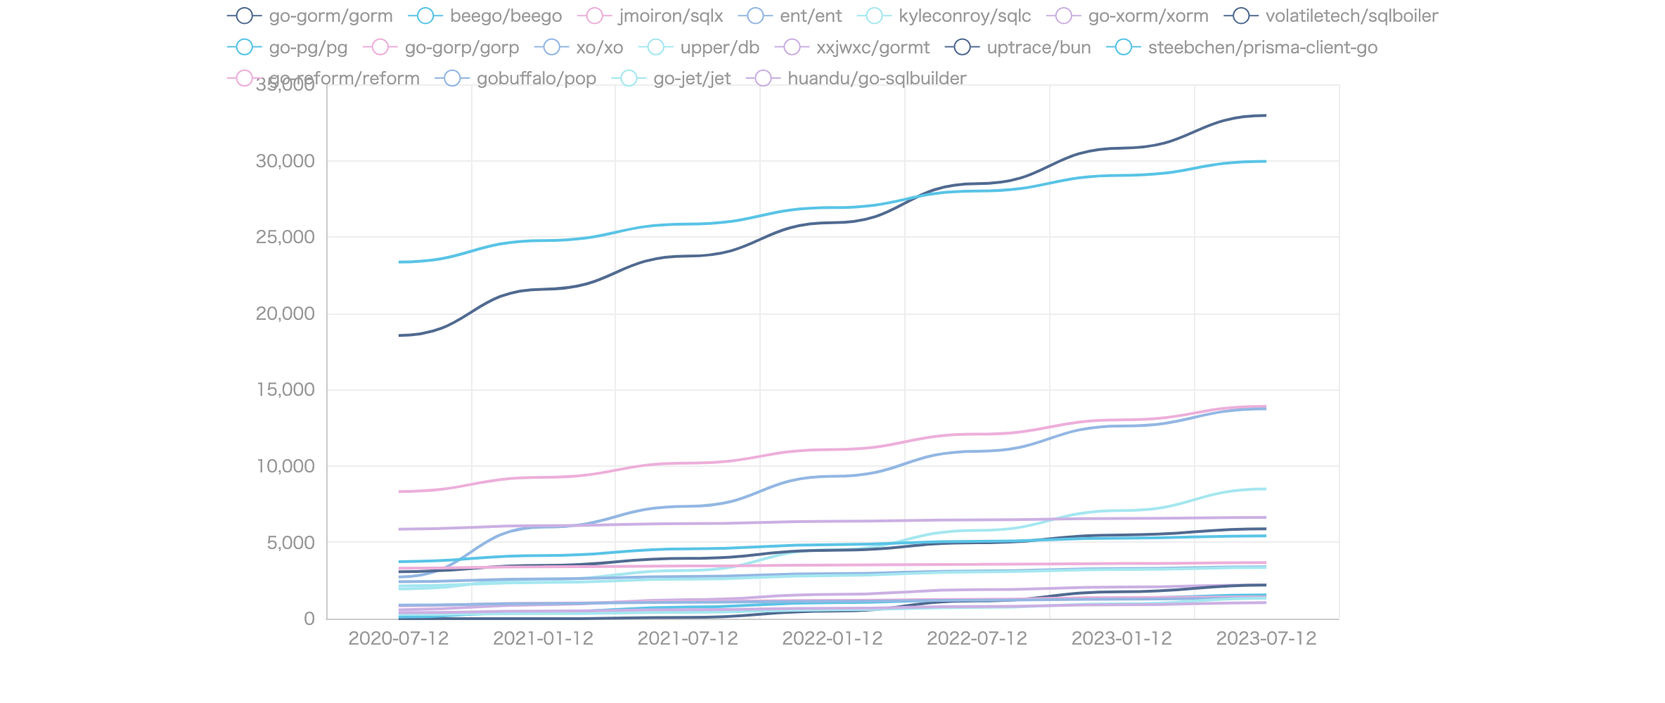
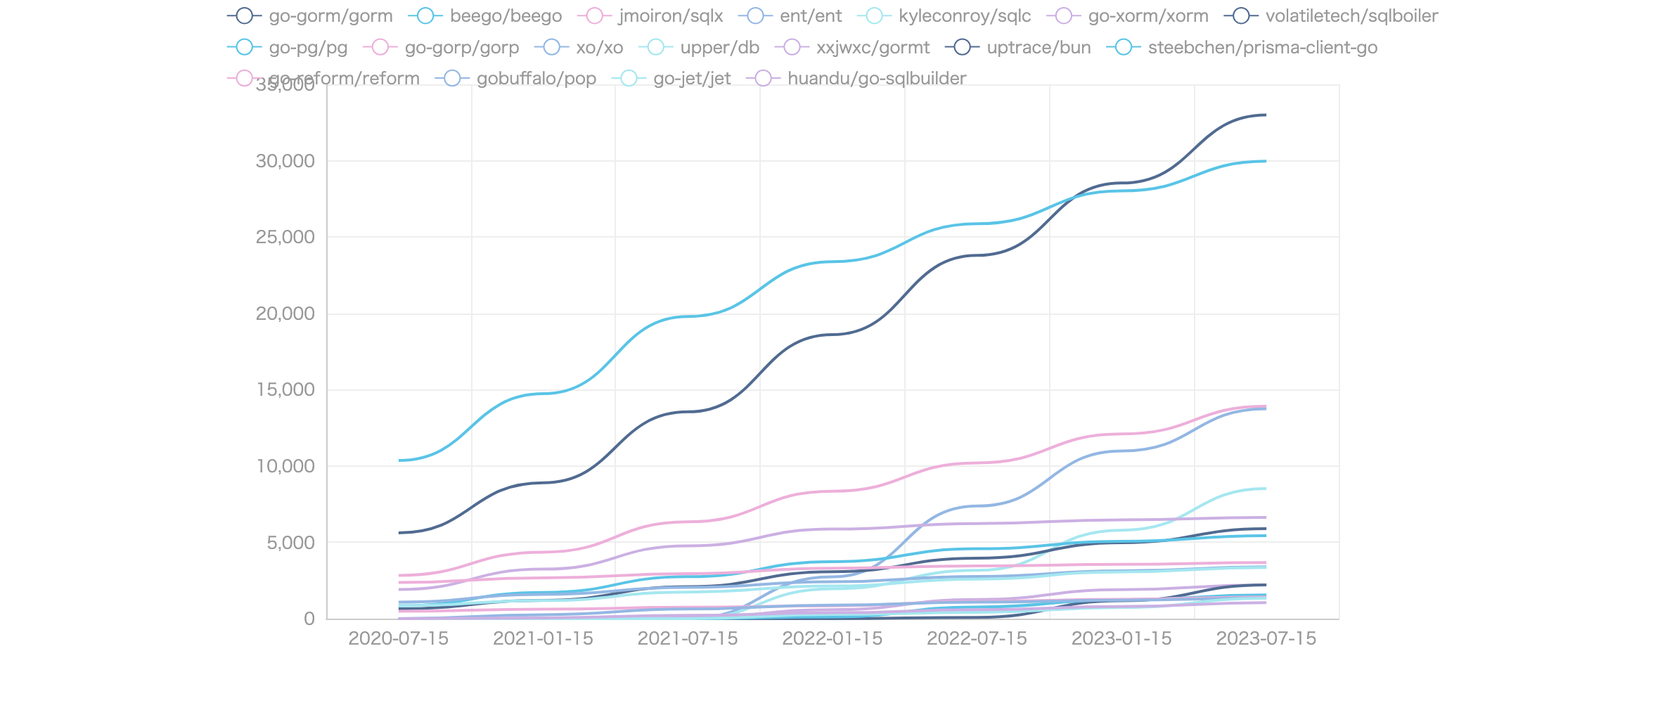
Update README

diff --git a/output/orm_chart.html b/output/orm_chart.html
@@ -10,20 +10,20 @@
 
 <body>
 <div class="container">
-    <div class="item" id="LTubOAgQKIcp" style="width:900px;height:500px;"></div>
+    <div class="item" id="xNKUoFWunjWs" style="width:900px;height:500px;"></div>
 </div>
 
 <script type="text/javascript">
     "use strict";
-    let goecharts_LTubOAgQKIcp = echarts.init(document.getElementById('LTubOAgQKIcp'), "westeros");
-    let option_LTubOAgQKIcp = {"dataset":{"source":null},"legend":{"show":true,"type":""},"series":[{"name":"go-gorm/gorm","type":"line","smooth":true,"connectNulls":false,"showSymbol":false,"waveAnimation":false,"renderLabelForZeroData":false,"selectedMode":false,"animation":false,"data":[{"value":18549,"XAxisIndex":0,"YAxisIndex":0},{"value":21580,"XAxisIndex":0,"YAxisIndex":0},{"value":23752,"XAxisIndex":0,"YAxisIndex":0},{"value":25937,"XAxisIndex":0,"YAxisIndex":0},{"value":28491,"XAxisIndex":0,"YAxisIndex":0},{"value":30826,"XAxisIndex":0,"YAxisIndex":0},{"value":32958,"XAxisIndex":0,"YAxisIndex":0}]},{"name":"beego/beego","type":"line","smooth":true,"connectNulls":false,"showSymbol":false,"waveAnimation":false,"renderLabelForZeroData":false,"selectedMode":false,"animation":false,"data":[{"value":23360,"XAxisIndex":0,"YAxisIndex":0},{"value":24763,"XAxisIndex":0,"YAxisIndex":0},{"value":25849,"XAxisIndex":0,"YAxisIndex":0},{"value":26924,"XAxisIndex":0,"YAxisIndex":0},{"value":28008,"XAxisIndex":0,"YAxisIndex":0},{"value":29040,"XAxisIndex":0,"YAxisIndex":0},{"value":29958,"XAxisIndex":0,"YAxisIndex":0}]},{"name":"jmoiron/sqlx","type":"line","smooth":true,"connectNulls":false,"showSymbol":false,"waveAnimation":false,"renderLabelForZeroData":false,"selectedMode":false,"animation":false,"data":[{"value":8328,"XAxisIndex":0,"YAxisIndex":0},{"value":9255,"XAxisIndex":0,"YAxisIndex":0},{"value":10191,"XAxisIndex":0,"YAxisIndex":0},{"value":11075,"XAxisIndex":0,"YAxisIndex":0},{"value":12084,"XAxisIndex":0,"YAxisIndex":0},{"value":13020,"XAxisIndex":0,"YAxisIndex":0},{"value":13909,"XAxisIndex":0,"YAxisIndex":0}]},{"name":"ent/ent","type":"line","smooth":true,"connectNulls":false,"showSymbol":false,"waveAnimation":false,"renderLabelForZeroData":false,"selectedMode":false,"animation":false,"data":[{"value":2728,"XAxisIndex":0,"YAxisIndex":0},{"value":5997,"XAxisIndex":0,"YAxisIndex":0},{"value":7359,"XAxisIndex":0,"YAxisIndex":0},{"value":9323,"XAxisIndex":0,"YAxisIndex":0},{"value":10964,"XAxisIndex":0,"YAxisIndex":0},{"value":12620,"XAxisIndex":0,"YAxisIndex":0},{"value":13744,"XAxisIndex":0,"YAxisIndex":0}]},{"name":"kyleconroy/sqlc","type":"line","smooth":true,"connectNulls":false,"showSymbol":false,"waveAnimation":false,"renderLabelForZeroData":false,"selectedMode":false,"animation":false,"data":[{"value":1947,"XAxisIndex":0,"YAxisIndex":0},{"value":2568,"XAxisIndex":0,"YAxisIndex":0},{"value":3157,"XAxisIndex":0,"YAxisIndex":0},{"value":4518,"XAxisIndex":0,"YAxisIndex":0},{"value":5779,"XAxisIndex":0,"YAxisIndex":0},{"value":7079,"XAxisIndex":0,"YAxisIndex":0},{"value":8492,"XAxisIndex":0,"YAxisIndex":0}]},{"name":"go-xorm/xorm","type":"line","smooth":true,"connectNulls":false,"showSymbol":false,"waveAnimation":false,"renderLabelForZeroData":false,"selectedMode":false,"animation":false,"data":[{"value":5861,"XAxisIndex":0,"YAxisIndex":0},{"value":6087,"XAxisIndex":0,"YAxisIndex":0},{"value":6226,"XAxisIndex":0,"YAxisIndex":0},{"value":6378,"XAxisIndex":0,"YAxisIndex":0},{"value":6469,"XAxisIndex":0,"YAxisIndex":0},{"value":6566,"XAxisIndex":0,"YAxisIndex":0},{"value":6636,"XAxisIndex":0,"YAxisIndex":0}]},{"name":"volatiletech/sqlboiler","type":"line","smooth":true,"connectNulls":false,"showSymbol":false,"waveAnimation":false,"renderLabelForZeroData":false,"selectedMode":false,"animation":false,"data":[{"value":3072,"XAxisIndex":0,"YAxisIndex":0},{"value":3485,"XAxisIndex":0,"YAxisIndex":0},{"value":3952,"XAxisIndex":0,"YAxisIndex":0},{"value":4478,"XAxisIndex":0,"YAxisIndex":0},{"value":4970,"XAxisIndex":0,"YAxisIndex":0},{"value":5482,"XAxisIndex":0,"YAxisIndex":0},{"value":5885,"XAxisIndex":0,"YAxisIndex":0}]},{"name":"go-pg/pg","type":"line","smooth":true,"connectNulls":false,"showSymbol":false,"waveAnimation":false,"renderLabelForZeroData":false,"selectedMode":false,"animation":false,"data":[{"value":3731,"XAxisIndex":0,"YAxisIndex":0},{"value":4134,"XAxisIndex":0,"YAxisIndex":0},{"value":4575,"XAxisIndex":0,"YAxisIndex":0},{"value":4851,"XAxisIndex":0,"YAxisIndex":0},{"value":5065,"XAxisIndex":0,"YAxisIndex":0},{"value":5278,"XAxisIndex":0,"YAxisIndex":0},{"value":5427,"XAxisIndex":0,"YAxisIndex":0}]},{"name":"go-gorp/gorp","type":"line","smooth":true,"connectNulls":false,"showSymbol":false,"waveAnimation":false,"renderLabelForZeroData":false,"selectedMode":false,"animation":false,"data":[{"value":3305,"XAxisIndex":0,"YAxisIndex":0},{"value":3394,"XAxisIndex":0,"YAxisIndex":0},{"value":3451,"XAxisIndex":0,"YAxisIndex":0},{"value":3514,"XAxisIndex":0,"YAxisIndex":0},{"value":3556,"XAxisIndex":0,"YAxisIndex":0},{"value":3611,"XAxisIndex":0,"YAxisIndex":0},{"value":3673,"XAxisIndex":0,"YAxisIndex":0}]},{"name":"xo/xo","type":"line","smooth":true,"connectNulls":false,"showSymbol":false,"waveAnimation":false,"renderLabelForZeroData":false,"selectedMode":false,"animation":false,"data":[{"value":2417,"XAxisIndex":0,"YAxisIndex":0},{"value":2600,"XAxisIndex":0,"YAxisIndex":0},{"value":2759,"XAxisIndex":0,"YAxisIndex":0},{"value":2945,"XAxisIndex":0,"YAxisIndex":0},{"value":3125,"XAxisIndex":0,"YAxisIndex":0},{"value":3281,"XAxisIndex":0,"YAxisIndex":0},{"value":3391,"XAxisIndex":0,"YAxisIndex":0}]},{"name":"upper/db","type":"line","smooth":true,"connectNulls":false,"showSymbol":false,"waveAnimation":false,"renderLabelForZeroData":false,"selectedMode":false,"animation":false,"data":[{"value":2136,"XAxisIndex":0,"YAxisIndex":0},{"value":2366,"XAxisIndex":0,"YAxisIndex":0},{"value":2588,"XAxisIndex":0,"YAxisIndex":0},{"value":2822,"XAxisIndex":0,"YAxisIndex":0},{"value":3061,"XAxisIndex":0,"YAxisIndex":0},{"value":3219,"XAxisIndex":0,"YAxisIndex":0},{"value":3348,"XAxisIndex":0,"YAxisIndex":0}]},{"name":"xxjwxc/gormt","type":"line","smooth":true,"connectNulls":false,"showSymbol":false,"waveAnimation":false,"renderLabelForZeroData":false,"selectedMode":false,"animation":false,"data":[{"value":577,"XAxisIndex":0,"YAxisIndex":0},{"value":911,"XAxisIndex":0,"YAxisIndex":0},{"value":1245,"XAxisIndex":0,"YAxisIndex":0},{"value":1591,"XAxisIndex":0,"YAxisIndex":0},{"value":1894,"XAxisIndex":0,"YAxisIndex":0},{"value":2072,"XAxisIndex":0,"YAxisIndex":0},{"value":2212,"XAxisIndex":0,"YAxisIndex":0}]},{"name":"uptrace/bun","type":"line","smooth":true,"connectNulls":false,"showSymbol":false,"waveAnimation":false,"renderLabelForZeroData":false,"selectedMode":false,"animation":false,"data":[{"value":0,"XAxisIndex":0,"YAxisIndex":0},{"value":0,"XAxisIndex":0,"YAxisIndex":0},{"value":79,"XAxisIndex":0,"YAxisIndex":0},{"value":497,"XAxisIndex":0,"YAxisIndex":0},{"value":1158,"XAxisIndex":0,"YAxisIndex":0},{"value":1761,"XAxisIndex":0,"YAxisIndex":0},{"value":2200,"XAxisIndex":0,"YAxisIndex":0}]},{"name":"steebchen/prisma-client-go","type":"line","smooth":true,"connectNulls":false,"showSymbol":false,"waveAnimation":false,"renderLabelForZeroData":false,"selectedMode":false,"animation":false,"data":[{"value":111,"XAxisIndex":0,"YAxisIndex":0},{"value":432,"XAxisIndex":0,"YAxisIndex":0},{"value":762,"XAxisIndex":0,"YAxisIndex":0},{"value":1049,"XAxisIndex":0,"YAxisIndex":0},{"value":1230,"XAxisIndex":0,"YAxisIndex":0},{"value":1355,"XAxisIndex":0,"YAxisIndex":0},{"value":1549,"XAxisIndex":0,"YAxisIndex":0}]},{"name":"go-reform/reform","type":"line","smooth":true,"connectNulls":false,"showSymbol":false,"waveAnimation":false,"renderLabelForZeroData":false,"selectedMode":false,"animation":false,"data":[{"value":839,"XAxisIndex":0,"YAxisIndex":0},{"value":1015,"XAxisIndex":0,"YAxisIndex":0},{"value":1128,"XAxisIndex":0,"YAxisIndex":0},{"value":1196,"XAxisIndex":0,"YAxisIndex":0},{"value":1265,"XAxisIndex":0,"YAxisIndex":0},{"value":1379,"XAxisIndex":0,"YAxisIndex":0},{"value":1419,"XAxisIndex":0,"YAxisIndex":0}]},{"name":"gobuffalo/pop","type":"line","smooth":true,"connectNulls":false,"showSymbol":false,"waveAnimation":false,"renderLabelForZeroData":false,"selectedMode":false,"animation":false,"data":[{"value":885,"XAxisIndex":0,"YAxisIndex":0},{"value":985,"XAxisIndex":0,"YAxisIndex":0},{"value":1076,"XAxisIndex":0,"YAxisIndex":0},{"value":1145,"XAxisIndex":0,"YAxisIndex":0},{"value":1211,"XAxisIndex":0,"YAxisIndex":0},{"value":1277,"XAxisIndex":0,"YAxisIndex":0},{"value":1345,"XAxisIndex":0,"YAxisIndex":0}]},{"name":"go-jet/jet","type":"line","smooth":true,"connectNulls":false,"showSymbol":false,"waveAnimation":false,"renderLabelForZeroData":false,"selectedMode":false,"animation":false,"data":[{"value":274,"XAxisIndex":0,"YAxisIndex":0},{"value":334,"XAxisIndex":0,"YAxisIndex":0},{"value":414,"XAxisIndex":0,"YAxisIndex":0},{"value":578,"XAxisIndex":0,"YAxisIndex":0},{"value":739,"XAxisIndex":0,"YAxisIndex":0},{"value":974,"XAxisIndex":0,"YAxisIndex":0},{"value":1331,"XAxisIndex":0,"YAxisIndex":0}]},{"name":"huandu/go-sqlbuilder","type":"line","smooth":true,"connectNulls":false,"showSymbol":false,"waveAnimation":false,"renderLabelForZeroData":false,"selectedMode":false,"animation":false,"data":[{"value":388,"XAxisIndex":0,"YAxisIndex":0},{"value":495,"XAxisIndex":0,"YAxisIndex":0},{"value":589,"XAxisIndex":0,"YAxisIndex":0},{"value":679,"XAxisIndex":0,"YAxisIndex":0},{"value":792,"XAxisIndex":0,"YAxisIndex":0},{"value":904,"XAxisIndex":0,"YAxisIndex":0},{"value":1044,"XAxisIndex":0,"YAxisIndex":0}]}],"title":{},"tooltip":{"show":false},"xAxis":[{"data":["2020-07-12","2021-01-12","2021-07-12","2022-01-12","2022-07-12","2023-01-12","2023-07-12"]}],"yAxis":[{}]}
+    let goecharts_xNKUoFWunjWs = echarts.init(document.getElementById('xNKUoFWunjWs'), "westeros");
+    let option_xNKUoFWunjWs = {"dataset":{"source":null},"legend":{"show":true,"type":""},"series":[{"name":"go-gorm/gorm","type":"line","smooth":true,"connectNulls":false,"showSymbol":false,"waveAnimation":false,"renderLabelForZeroData":false,"selectedMode":false,"animation":false,"data":[{"value":5621,"XAxisIndex":0,"YAxisIndex":0},{"value":8902,"XAxisIndex":0,"YAxisIndex":0},{"value":13546,"XAxisIndex":0,"YAxisIndex":0},{"value":18604,"XAxisIndex":0,"YAxisIndex":0},{"value":23792,"XAxisIndex":0,"YAxisIndex":0},{"value":28537,"XAxisIndex":0,"YAxisIndex":0},{"value":32997,"XAxisIndex":0,"YAxisIndex":0}]},{"name":"beego/beego","type":"line","smooth":true,"connectNulls":false,"showSymbol":false,"waveAnimation":false,"renderLabelForZeroData":false,"selectedMode":false,"animation":false,"data":[{"value":10364,"XAxisIndex":0,"YAxisIndex":0},{"value":14732,"XAxisIndex":0,"YAxisIndex":0},{"value":19793,"XAxisIndex":0,"YAxisIndex":0},{"value":23385,"XAxisIndex":0,"YAxisIndex":0},{"value":25869,"XAxisIndex":0,"YAxisIndex":0},{"value":28020,"XAxisIndex":0,"YAxisIndex":0},{"value":29963,"XAxisIndex":0,"YAxisIndex":0}]},{"name":"jmoiron/sqlx","type":"line","smooth":true,"connectNulls":false,"showSymbol":false,"waveAnimation":false,"renderLabelForZeroData":false,"selectedMode":false,"animation":false,"data":[{"value":2833,"XAxisIndex":0,"YAxisIndex":0},{"value":4356,"XAxisIndex":0,"YAxisIndex":0},{"value":6341,"XAxisIndex":0,"YAxisIndex":0},{"value":8347,"XAxisIndex":0,"YAxisIndex":0},{"value":10206,"XAxisIndex":0,"YAxisIndex":0},{"value":12096,"XAxisIndex":0,"YAxisIndex":0},{"value":13918,"XAxisIndex":0,"YAxisIndex":0}]},{"name":"ent/ent","type":"line","smooth":true,"connectNulls":false,"showSymbol":false,"waveAnimation":false,"renderLabelForZeroData":false,"selectedMode":false,"animation":false,"data":[{"value":0,"XAxisIndex":0,"YAxisIndex":0},{"value":0,"XAxisIndex":0,"YAxisIndex":0},{"value":0,"XAxisIndex":0,"YAxisIndex":0},{"value":2743,"XAxisIndex":0,"YAxisIndex":0},{"value":7378,"XAxisIndex":0,"YAxisIndex":0},{"value":10980,"XAxisIndex":0,"YAxisIndex":0},{"value":13750,"XAxisIndex":0,"YAxisIndex":0}]},{"name":"kyleconroy/sqlc","type":"line","smooth":true,"connectNulls":false,"showSymbol":false,"waveAnimation":false,"renderLabelForZeroData":false,"selectedMode":false,"animation":false,"data":[{"value":0,"XAxisIndex":0,"YAxisIndex":0},{"value":0,"XAxisIndex":0,"YAxisIndex":0},{"value":0,"XAxisIndex":0,"YAxisIndex":0},{"value":1956,"XAxisIndex":0,"YAxisIndex":0},{"value":3163,"XAxisIndex":0,"YAxisIndex":0},{"value":5793,"XAxisIndex":0,"YAxisIndex":0},{"value":8516,"XAxisIndex":0,"YAxisIndex":0}]},{"name":"go-xorm/xorm","type":"line","smooth":true,"connectNulls":false,"showSymbol":false,"waveAnimation":false,"renderLabelForZeroData":false,"selectedMode":false,"animation":false,"data":[{"value":1910,"XAxisIndex":0,"YAxisIndex":0},{"value":3242,"XAxisIndex":0,"YAxisIndex":0},{"value":4768,"XAxisIndex":0,"YAxisIndex":0},{"value":5866,"XAxisIndex":0,"YAxisIndex":0},{"value":6229,"XAxisIndex":0,"YAxisIndex":0},{"value":6472,"XAxisIndex":0,"YAxisIndex":0},{"value":6636,"XAxisIndex":0,"YAxisIndex":0}]},{"name":"volatiletech/sqlboiler","type":"line","smooth":true,"connectNulls":false,"showSymbol":false,"waveAnimation":false,"renderLabelForZeroData":false,"selectedMode":false,"animation":false,"data":[{"value":646,"XAxisIndex":0,"YAxisIndex":0},{"value":1195,"XAxisIndex":0,"YAxisIndex":0},{"value":2095,"XAxisIndex":0,"YAxisIndex":0},{"value":3079,"XAxisIndex":0,"YAxisIndex":0},{"value":3958,"XAxisIndex":0,"YAxisIndex":0},{"value":4974,"XAxisIndex":0,"YAxisIndex":0},{"value":5891,"XAxisIndex":0,"YAxisIndex":0}]},{"name":"go-pg/pg","type":"line","smooth":true,"connectNulls":false,"showSymbol":false,"waveAnimation":false,"renderLabelForZeroData":false,"selectedMode":false,"animation":false,"data":[{"value":850,"XAxisIndex":0,"YAxisIndex":0},{"value":1711,"XAxisIndex":0,"YAxisIndex":0},{"value":2746,"XAxisIndex":0,"YAxisIndex":0},{"value":3735,"XAxisIndex":0,"YAxisIndex":0},{"value":4581,"XAxisIndex":0,"YAxisIndex":0},{"value":5065,"XAxisIndex":0,"YAxisIndex":0},{"value":5431,"XAxisIndex":0,"YAxisIndex":0}]},{"name":"go-gorp/gorp","type":"line","smooth":true,"connectNulls":false,"showSymbol":false,"waveAnimation":false,"renderLabelForZeroData":false,"selectedMode":false,"animation":false,"data":[{"value":2370,"XAxisIndex":0,"YAxisIndex":0},{"value":2673,"XAxisIndex":0,"YAxisIndex":0},{"value":2948,"XAxisIndex":0,"YAxisIndex":0},{"value":3309,"XAxisIndex":0,"YAxisIndex":0},{"value":3451,"XAxisIndex":0,"YAxisIndex":0},{"value":3556,"XAxisIndex":0,"YAxisIndex":0},{"value":3675,"XAxisIndex":0,"YAxisIndex":0}]},{"name":"xo/xo","type":"line","smooth":true,"connectNulls":false,"showSymbol":false,"waveAnimation":false,"renderLabelForZeroData":false,"selectedMode":false,"animation":false,"data":[{"value":1080,"XAxisIndex":0,"YAxisIndex":0},{"value":1590,"XAxisIndex":0,"YAxisIndex":0},{"value":2048,"XAxisIndex":0,"YAxisIndex":0},{"value":2418,"XAxisIndex":0,"YAxisIndex":0},{"value":2762,"XAxisIndex":0,"YAxisIndex":0},{"value":3126,"XAxisIndex":0,"YAxisIndex":0},{"value":3392,"XAxisIndex":0,"YAxisIndex":0}]},{"name":"upper/db","type":"line","smooth":true,"connectNulls":false,"showSymbol":false,"waveAnimation":false,"renderLabelForZeroData":false,"selectedMode":false,"animation":false,"data":[{"value":833,"XAxisIndex":0,"YAxisIndex":0},{"value":1184,"XAxisIndex":0,"YAxisIndex":0},{"value":1743,"XAxisIndex":0,"YAxisIndex":0},{"value":2138,"XAxisIndex":0,"YAxisIndex":0},{"value":2594,"XAxisIndex":0,"YAxisIndex":0},{"value":3064,"XAxisIndex":0,"YAxisIndex":0},{"value":3354,"XAxisIndex":0,"YAxisIndex":0}]},{"name":"xxjwxc/gormt","type":"line","smooth":true,"connectNulls":false,"showSymbol":false,"waveAnimation":false,"renderLabelForZeroData":false,"selectedMode":false,"animation":false,"data":[{"value":0,"XAxisIndex":0,"YAxisIndex":0},{"value":0,"XAxisIndex":0,"YAxisIndex":0},{"value":48,"XAxisIndex":0,"YAxisIndex":0},{"value":587,"XAxisIndex":0,"YAxisIndex":0},{"value":1254,"XAxisIndex":0,"YAxisIndex":0},{"value":1899,"XAxisIndex":0,"YAxisIndex":0},{"value":2215,"XAxisIndex":0,"YAxisIndex":0}]},{"name":"uptrace/bun","type":"line","smooth":true,"connectNulls":false,"showSymbol":false,"waveAnimation":false,"renderLabelForZeroData":false,"selectedMode":false,"animation":false,"data":[{"value":0,"XAxisIndex":0,"YAxisIndex":0},{"value":0,"XAxisIndex":0,"YAxisIndex":0},{"value":0,"XAxisIndex":0,"YAxisIndex":0},{"value":0,"XAxisIndex":0,"YAxisIndex":0},{"value":82,"XAxisIndex":0,"YAxisIndex":0},{"value":1172,"XAxisIndex":0,"YAxisIndex":0},{"value":2212,"XAxisIndex":0,"YAxisIndex":0}]},{"name":"steebchen/prisma-client-go","type":"line","smooth":true,"connectNulls":false,"showSymbol":false,"waveAnimation":false,"renderLabelForZeroData":false,"selectedMode":false,"animation":false,"data":[{"value":0,"XAxisIndex":0,"YAxisIndex":0},{"value":0,"XAxisIndex":0,"YAxisIndex":0},{"value":0,"XAxisIndex":0,"YAxisIndex":0},{"value":114,"XAxisIndex":0,"YAxisIndex":0},{"value":765,"XAxisIndex":0,"YAxisIndex":0},{"value":1232,"XAxisIndex":0,"YAxisIndex":0},{"value":1551,"XAxisIndex":0,"YAxisIndex":0}]},{"name":"go-reform/reform","type":"line","smooth":true,"connectNulls":false,"showSymbol":false,"waveAnimation":false,"renderLabelForZeroData":false,"selectedMode":false,"animation":false,"data":[{"value":483,"XAxisIndex":0,"YAxisIndex":0},{"value":621,"XAxisIndex":0,"YAxisIndex":0},{"value":746,"XAxisIndex":0,"YAxisIndex":0},{"value":840,"XAxisIndex":0,"YAxisIndex":0},{"value":1132,"XAxisIndex":0,"YAxisIndex":0},{"value":1265,"XAxisIndex":0,"YAxisIndex":0},{"value":1419,"XAxisIndex":0,"YAxisIndex":0}]},{"name":"gobuffalo/pop","type":"line","smooth":true,"connectNulls":false,"showSymbol":false,"waveAnimation":false,"renderLabelForZeroData":false,"selectedMode":false,"animation":false,"data":[{"value":0,"XAxisIndex":0,"YAxisIndex":0},{"value":257,"XAxisIndex":0,"YAxisIndex":0},{"value":633,"XAxisIndex":0,"YAxisIndex":0},{"value":889,"XAxisIndex":0,"YAxisIndex":0},{"value":1077,"XAxisIndex":0,"YAxisIndex":0},{"value":1211,"XAxisIndex":0,"YAxisIndex":0},{"value":1346,"XAxisIndex":0,"YAxisIndex":0}]},{"name":"go-jet/jet","type":"line","smooth":true,"connectNulls":false,"showSymbol":false,"waveAnimation":false,"renderLabelForZeroData":false,"selectedMode":false,"animation":false,"data":[{"value":0,"XAxisIndex":0,"YAxisIndex":0},{"value":0,"XAxisIndex":0,"YAxisIndex":0},{"value":0,"XAxisIndex":0,"YAxisIndex":0},{"value":275,"XAxisIndex":0,"YAxisIndex":0},{"value":416,"XAxisIndex":0,"YAxisIndex":0},{"value":740,"XAxisIndex":0,"YAxisIndex":0},{"value":1335,"XAxisIndex":0,"YAxisIndex":0}]},{"name":"huandu/go-sqlbuilder","type":"line","smooth":true,"connectNulls":false,"showSymbol":false,"waveAnimation":false,"renderLabelForZeroData":false,"selectedMode":false,"animation":false,"data":[{"value":0,"XAxisIndex":0,"YAxisIndex":0},{"value":50,"XAxisIndex":0,"YAxisIndex":0},{"value":217,"XAxisIndex":0,"YAxisIndex":0},{"value":387,"XAxisIndex":0,"YAxisIndex":0},{"value":588,"XAxisIndex":0,"YAxisIndex":0},{"value":794,"XAxisIndex":0,"YAxisIndex":0},{"value":1045,"XAxisIndex":0,"YAxisIndex":0}]}],"title":{},"tooltip":{"show":false},"xAxis":[{"data":["2020-07-15","2021-01-15","2021-07-15","2022-01-15","2022-07-15","2023-01-15","2023-07-15"]}],"yAxis":[{}]}
 ;
     
-	let action_LTubOAgQKIcp = {"areas":{},"type":""}
+	let action_xNKUoFWunjWs = {"areas":{},"type":""}
 ;
     
-    goecharts_LTubOAgQKIcp.setOption(option_LTubOAgQKIcp);
- 	goecharts_LTubOAgQKIcp.dispatchAction(action_LTubOAgQKIcp);
+    goecharts_xNKUoFWunjWs.setOption(option_xNKUoFWunjWs);
+ 	goecharts_xNKUoFWunjWs.dispatchAction(action_xNKUoFWunjWs);
 </script>
 
 <style>

diff --git a/README.md b/README.md
@@ -4,93 +4,93 @@ If there are any other public repositories of golang orMapper, I'd be glad to he
 [![Start数チャート](output/orm_chart.jpeg)](https://ryotaroseto.github.io/star-golang-orms/output/orm_chart.html)
 | No. | Project Name | Stars | Subscribers | Forks | Open Issues | Description | Createdate | Last Update |
 | --- | ------------ | ----- | ----------- | ----- | ----------- | ----------- | ----------- | ----------- |
-| 1 | [go-gorm/gorm](https://github.com/go-gorm/gorm) | 32958 | 495 | 3631 | 232 | The fantastic ORM library for Golang, aims to be developer friendly | 2013-10-25 08:31:38 | 2023-07-12 11:08:45 |
-| 2 | [beego/beego](https://github.com/beego/beego) | 29958 | 1210 | 5602 | 12 | beego is an open-source, high-performance web framework for the Go programming language. | 2012-02-29 02:32:08 | 2023-07-12 09:22:39 |
-| 3 | [jmoiron/sqlx](https://github.com/jmoiron/sqlx) | 13908 | 197 | 1027 | 327 | general purpose extensions to golang's database/sql | 2013-01-28 19:40:00 | 2023-07-12 07:52:51 |
-| 4 | [ent/ent](https://github.com/ent/ent) | 13744 | 148 | 824 | 320 | An entity framework for Go | 2019-06-12 22:53:55 | 2023-07-12 06:48:47 |
-| 5 | [kyleconroy/sqlc](https://github.com/kyleconroy/sqlc) | 8492 | 69 | 574 | 358 | Generate type-safe code from SQL | 2019-06-21 21:11:35 | 2023-07-12 11:10:24 |
+| 1 | [go-gorm/gorm](https://github.com/go-gorm/gorm) | 32997 | 495 | 3636 | 220 | The fantastic ORM library for Golang, aims to be developer friendly | 2013-10-25 08:31:38 | 2023-07-15 01:40:13 |
+| 2 | [beego/beego](https://github.com/beego/beego) | 29963 | 1209 | 5603 | 11 | beego is an open-source, high-performance web framework for the Go programming language. | 2012-02-29 02:32:08 | 2023-07-14 16:38:38 |
+| 3 | [jmoiron/sqlx](https://github.com/jmoiron/sqlx) | 13918 | 197 | 1027 | 328 | general purpose extensions to golang's database/sql | 2013-01-28 19:40:00 | 2023-07-14 23:35:47 |
+| 4 | [ent/ent](https://github.com/ent/ent) | 13750 | 148 | 824 | 322 | An entity framework for Go | 2019-06-12 22:53:55 | 2023-07-14 16:16:34 |
+| 5 | [kyleconroy/sqlc](https://github.com/kyleconroy/sqlc) | 8516 | 70 | 577 | 360 | Generate type-safe code from SQL | 2019-06-21 21:11:35 | 2023-07-14 20:39:22 |
 | 6 | [go-xorm/xorm](https://github.com/go-xorm/xorm) | 6636 | 266 | 772 | 307 | Simple and Powerful ORM for Go, support mysql,postgres,tidb,sqlite3,mssql,oracle, Moved to https://gitea.com/xorm/xorm | 2013-05-09 02:35:04 | 2023-07-12 08:42:43 |
-| 7 | [volatiletech/sqlboiler](https://github.com/volatiletech/sqlboiler) | 5885 | 75 | 508 | 88 | Generate a Go ORM tailored to your database schema. | 2016-02-21 06:18:25 | 2023-07-12 02:54:36 |
-| 8 | [go-pg/pg](https://github.com/go-pg/pg) | 5427 | 90 | 397 | 115 | Golang ORM with focus on PostgreSQL features and performance | 2013-04-24 12:31:41 | 2023-07-11 16:20:52 |
-| 9 | [go-gorp/gorp](https://github.com/go-gorp/gorp) | 3673 | 108 | 380 | 145 | Go Relational Persistence - an ORM-ish library for Go | 2012-01-04 19:50:09 | 2023-07-10 14:51:07 |
-| 10 | [xo/xo](https://github.com/xo/xo) | 3391 | 71 | 306 | 44 | Command line tool to generate idiomatic Go code for SQL databases supporting PostgreSQL, MySQL, SQLite, Oracle, and Microsoft SQL Server | 2016-02-05 10:22:20 | 2023-07-11 18:50:38 |
-| 11 | [upper/db](https://github.com/upper/db) | 3348 | 64 | 238 | 158 | Data access layer for PostgreSQL, CockroachDB, MySQL, SQLite and MongoDB with ORM-like features. | 2013-10-23 02:04:36 | 2023-07-10 08:26:14 |
-| 12 | [xxjwxc/gormt](https://github.com/xxjwxc/gormt) | 2212 | 22 | 340 | 57 | database to golang struct | 2019-05-05 13:10:26 | 2023-07-12 02:07:26 |
-| 13 | [uptrace/bun](https://github.com/uptrace/bun) | 2200 | 26 | 161 | 109 | SQL-first Golang ORM | 2021-05-03 11:40:52 | 2023-07-12 11:18:34 |
-| 14 | [steebchen/prisma-client-go](https://github.com/steebchen/prisma-client-go) | 1549 | 26 | 84 | 104 | Prisma Client Go is an auto-generated and fully type-safe database client | 2019-09-24 12:17:03 | 2023-07-11 14:01:22 |
+| 7 | [volatiletech/sqlboiler](https://github.com/volatiletech/sqlboiler) | 5891 | 75 | 510 | 88 | Generate a Go ORM tailored to your database schema. | 2016-02-21 06:18:25 | 2023-07-14 00:27:36 |
+| 8 | [go-pg/pg](https://github.com/go-pg/pg) | 5431 | 90 | 397 | 115 | Golang ORM with focus on PostgreSQL features and performance | 2013-04-24 12:31:41 | 2023-07-14 19:12:23 |
+| 9 | [go-gorp/gorp](https://github.com/go-gorp/gorp) | 3675 | 108 | 380 | 145 | Go Relational Persistence - an ORM-ish library for Go | 2012-01-04 19:50:09 | 2023-07-14 06:48:33 |
+| 10 | [xo/xo](https://github.com/xo/xo) | 3392 | 71 | 307 | 44 | Command line tool to generate idiomatic Go code for SQL databases supporting PostgreSQL, MySQL, SQLite, Oracle, and Microsoft SQL Server | 2016-02-05 10:22:20 | 2023-07-13 18:52:35 |
+| 11 | [upper/db](https://github.com/upper/db) | 3354 | 63 | 237 | 158 | Data access layer for PostgreSQL, CockroachDB, MySQL, SQLite and MongoDB with ORM-like features. | 2013-10-23 02:04:36 | 2023-07-14 03:55:12 |
+| 12 | [xxjwxc/gormt](https://github.com/xxjwxc/gormt) | 2215 | 22 | 340 | 57 | database to golang struct | 2019-05-05 13:10:26 | 2023-07-14 08:15:59 |
+| 13 | [uptrace/bun](https://github.com/uptrace/bun) | 2212 | 26 | 161 | 111 | SQL-first Golang ORM | 2021-05-03 11:40:52 | 2023-07-14 23:29:08 |
+| 14 | [steebchen/prisma-client-go](https://github.com/steebchen/prisma-client-go) | 1551 | 26 | 84 | 108 | Prisma Client Go is an auto-generated and fully type-safe database client | 2019-09-24 12:17:03 | 2023-07-15 01:07:08 |
 | 15 | [go-reform/reform](https://github.com/go-reform/reform) | 1419 | 25 | 72 | 86 | A better ORM for Go, based on non-empty interfaces and code generation. | 2016-02-25 09:41:09 | 2023-06-28 11:21:48 |
-| 16 | [gobuffalo/pop](https://github.com/gobuffalo/pop) | 1345 | 23 | 237 | 98 | A Tasty Treat For All Your Database Needs | 2018-02-07 21:13:46 | 2023-07-11 22:19:35 |
-| 17 | [go-jet/jet](https://github.com/go-jet/jet) | 1331 | 19 | 79 | 25 | Type safe SQL builder with code generation and automatic query result data mapping | 2019-03-02 11:06:23 | 2023-07-12 00:54:23 |
-| 18 | [huandu/go-sqlbuilder](https://github.com/huandu/go-sqlbuilder) | 1044 | 12 | 99 | 9 | A flexible and powerful SQL string builder library plus a zero-config ORM. | 2017-12-27 16:37:48 | 2023-07-12 07:34:30 |
+| 16 | [gobuffalo/pop](https://github.com/gobuffalo/pop) | 1346 | 23 | 237 | 98 | A Tasty Treat For All Your Database Needs | 2018-02-07 21:13:46 | 2023-07-14 12:33:31 |
+| 17 | [go-jet/jet](https://github.com/go-jet/jet) | 1335 | 19 | 80 | 25 | Type safe SQL builder with code generation and automatic query result data mapping | 2019-03-02 11:06:23 | 2023-07-13 17:34:13 |
+| 18 | [huandu/go-sqlbuilder](https://github.com/huandu/go-sqlbuilder) | 1045 | 12 | 99 | 10 | A flexible and powerful SQL string builder library plus a zero-config ORM. | 2017-12-27 16:37:48 | 2023-07-14 09:27:50 |
 ## [go-gorm/gorm](https://github.com/go-gorm/gorm)
-| 2020-07-12 | 2021-01-12 | 2021-07-12 | 2022-01-12 | 2022-07-12 | 2023-01-12 | 2023-07-12 |
+| 2020-07-15 | 2021-01-15 | 2021-07-15 | 2022-01-15 | 2022-07-15 | 2023-01-15 | 2023-07-15 |
 | --- | --- | --- | --- | --- | --- | --- |
-| 18549 | 21580 | 23752 | 25937 | 28491 | 30826 | 32958 |
+| 5621 | 8902 | 13546 | 18604 | 23792 | 28537 | 32997 |
 ## [beego/beego](https://github.com/beego/beego)
-| 2020-07-12 | 2021-01-12 | 2021-07-12 | 2022-01-12 | 2022-07-12 | 2023-01-12 | 2023-07-12 |
+| 2020-07-15 | 2021-01-15 | 2021-07-15 | 2022-01-15 | 2022-07-15 | 2023-01-15 | 2023-07-15 |
 | --- | --- | --- | --- | --- | --- | --- |
-| 23360 | 24763 | 25849 | 26924 | 28008 | 29040 | 29958 |
+| 10364 | 14732 | 19793 | 23385 | 25869 | 28020 | 29963 |
 ## [jmoiron/sqlx](https://github.com/jmoiron/sqlx)
-| 2020-07-12 | 2021-01-12 | 2021-07-12 | 2022-01-12 | 2022-07-12 | 2023-01-12 | 2023-07-12 |
+| 2020-07-15 | 2021-01-15 | 2021-07-15 | 2022-01-15 | 2022-07-15 | 2023-01-15 | 2023-07-15 |
 | --- | --- | --- | --- | --- | --- | --- |
-| 8328 | 9255 | 10191 | 11075 | 12084 | 13020 | 13909 |
+| 2833 | 4356 | 6341 | 8347 | 10206 | 12096 | 13918 |
 ## [ent/ent](https://github.com/ent/ent)
-| 2020-07-12 | 2021-01-12 | 2021-07-12 | 2022-01-12 | 2022-07-12 | 2023-01-12 | 2023-07-12 |
+| 2020-07-15 | 2021-01-15 | 2021-07-15 | 2022-01-15 | 2022-07-15 | 2023-01-15 | 2023-07-15 |
 | --- | --- | --- | --- | --- | --- | --- |
-| 2728 | 5997 | 7359 | 9323 | 10964 | 12620 | 13744 |
+| - | - | - | 2743 | 7378 | 10980 | 13750 |
 ## [kyleconroy/sqlc](https://github.com/kyleconroy/sqlc)
-| 2020-07-12 | 2021-01-12 | 2021-07-12 | 2022-01-12 | 2022-07-12 | 2023-01-12 | 2023-07-12 |
+| 2020-07-15 | 2021-01-15 | 2021-07-15 | 2022-01-15 | 2022-07-15 | 2023-01-15 | 2023-07-15 |
 | --- | --- | --- | --- | --- | --- | --- |
-| 1947 | 2568 | 3157 | 4518 | 5779 | 7079 | 8492 |
+| - | - | - | 1956 | 3163 | 5793 | 8516 |
 ## [go-xorm/xorm](https://github.com/go-xorm/xorm)
-| 2020-07-12 | 2021-01-12 | 2021-07-12 | 2022-01-12 | 2022-07-12 | 2023-01-12 | 2023-07-12 |
+| 2020-07-15 | 2021-01-15 | 2021-07-15 | 2022-01-15 | 2022-07-15 | 2023-01-15 | 2023-07-15 |
 | --- | --- | --- | --- | --- | --- | --- |
-| 5861 | 6087 | 6226 | 6378 | 6469 | 6566 | 6636 |
+| 1910 | 3242 | 4768 | 5866 | 6229 | 6472 | 6636 |
 ## [volatiletech/sqlboiler](https://github.com/volatiletech/sqlboiler)
-| 2020-07-12 | 2021-01-12 | 2021-07-12 | 2022-01-12 | 2022-07-12 | 2023-01-12 | 2023-07-12 |
+| 2020-07-15 | 2021-01-15 | 2021-07-15 | 2022-01-15 | 2022-07-15 | 2023-01-15 | 2023-07-15 |
 | --- | --- | --- | --- | --- | --- | --- |
-| 3072 | 3485 | 3952 | 4478 | 4970 | 5482 | 5885 |
+| 646 | 1195 | 2095 | 3079 | 3958 | 4974 | 5891 |
 ## [go-pg/pg](https://github.com/go-pg/pg)
-| 2020-07-12 | 2021-01-12 | 2021-07-12 | 2022-01-12 | 2022-07-12 | 2023-01-12 | 2023-07-12 |
+| 2020-07-15 | 2021-01-15 | 2021-07-15 | 2022-01-15 | 2022-07-15 | 2023-01-15 | 2023-07-15 |
 | --- | --- | --- | --- | --- | --- | --- |
-| 3731 | 4134 | 4575 | 4851 | 5065 | 5278 | 5427 |
+| 850 | 1711 | 2746 | 3735 | 4581 | 5065 | 5431 |
 ## [go-gorp/gorp](https://github.com/go-gorp/gorp)
-| 2020-07-12 | 2021-01-12 | 2021-07-12 | 2022-01-12 | 2022-07-12 | 2023-01-12 | 2023-07-12 |
+| 2020-07-15 | 2021-01-15 | 2021-07-15 | 2022-01-15 | 2022-07-15 | 2023-01-15 | 2023-07-15 |
 | --- | --- | --- | --- | --- | --- | --- |
-| 3305 | 3394 | 3451 | 3514 | 3556 | 3611 | 3673 |
+| 2370 | 2673 | 2948 | 3309 | 3451 | 3556 | 3675 |
 ## [xo/xo](https://github.com/xo/xo)
-| 2020-07-12 | 2021-01-12 | 2021-07-12 | 2022-01-12 | 2022-07-12 | 2023-01-12 | 2023-07-12 |
+| 2020-07-15 | 2021-01-15 | 2021-07-15 | 2022-01-15 | 2022-07-15 | 2023-01-15 | 2023-07-15 |
 | --- | --- | --- | --- | --- | --- | --- |
-| 2417 | 2600 | 2759 | 2945 | 3125 | 3281 | 3391 |
+| 1080 | 1590 | 2048 | 2418 | 2762 | 3126 | 3392 |
 ## [upper/db](https://github.com/upper/db)
-| 2020-07-12 | 2021-01-12 | 2021-07-12 | 2022-01-12 | 2022-07-12 | 2023-01-12 | 2023-07-12 |
+| 2020-07-15 | 2021-01-15 | 2021-07-15 | 2022-01-15 | 2022-07-15 | 2023-01-15 | 2023-07-15 |
 | --- | --- | --- | --- | --- | --- | --- |
-| 2136 | 2366 | 2588 | 2822 | 3061 | 3219 | 3348 |
+| 833 | 1184 | 1743 | 2138 | 2594 | 3064 | 3354 |
 ## [xxjwxc/gormt](https://github.com/xxjwxc/gormt)
-| 2020-07-12 | 2021-01-12 | 2021-07-12 | 2022-01-12 | 2022-07-12 | 2023-01-12 | 2023-07-12 |
+| 2020-07-15 | 2021-01-15 | 2021-07-15 | 2022-01-15 | 2022-07-15 | 2023-01-15 | 2023-07-15 |
 | --- | --- | --- | --- | --- | --- | --- |
-| 577 | 911 | 1245 | 1591 | 1894 | 2072 | 2212 |
+| - | - | 48 | 587 | 1254 | 1899 | 2215 |
 ## [uptrace/bun](https://github.com/uptrace/bun)
-| 2020-07-12 | 2021-01-12 | 2021-07-12 | 2022-01-12 | 2022-07-12 | 2023-01-12 | 2023-07-12 |
+| 2020-07-15 | 2021-01-15 | 2021-07-15 | 2022-01-15 | 2022-07-15 | 2023-01-15 | 2023-07-15 |
 | --- | --- | --- | --- | --- | --- | --- |
-| - | - | 79 | 497 | 1158 | 1761 | 2200 |
+| - | - | - | - | 82 | 1172 | 2212 |
 ## [steebchen/prisma-client-go](https://github.com/steebchen/prisma-client-go)
-| 2020-07-12 | 2021-01-12 | 2021-07-12 | 2022-01-12 | 2022-07-12 | 2023-01-12 | 2023-07-12 |
+| 2020-07-15 | 2021-01-15 | 2021-07-15 | 2022-01-15 | 2022-07-15 | 2023-01-15 | 2023-07-15 |
 | --- | --- | --- | --- | --- | --- | --- |
-| 111 | 432 | 762 | 1049 | 1230 | 1355 | 1549 |
+| - | - | - | 114 | 765 | 1232 | 1551 |
 ## [go-reform/reform](https://github.com/go-reform/reform)
-| 2020-07-12 | 2021-01-12 | 2021-07-12 | 2022-01-12 | 2022-07-12 | 2023-01-12 | 2023-07-12 |
+| 2020-07-15 | 2021-01-15 | 2021-07-15 | 2022-01-15 | 2022-07-15 | 2023-01-15 | 2023-07-15 |
 | --- | --- | --- | --- | --- | --- | --- |
-| 839 | 1015 | 1128 | 1196 | 1265 | 1379 | 1419 |
+| 483 | 621 | 746 | 840 | 1132 | 1265 | 1419 |
 ## [gobuffalo/pop](https://github.com/gobuffalo/pop)
-| 2020-07-12 | 2021-01-12 | 2021-07-12 | 2022-01-12 | 2022-07-12 | 2023-01-12 | 2023-07-12 |
+| 2020-07-15 | 2021-01-15 | 2021-07-15 | 2022-01-15 | 2022-07-15 | 2023-01-15 | 2023-07-15 |
 | --- | --- | --- | --- | --- | --- | --- |
-| 885 | 985 | 1076 | 1145 | 1211 | 1277 | 1345 |
+| - | 257 | 633 | 889 | 1077 | 1211 | 1346 |
 ## [go-jet/jet](https://github.com/go-jet/jet)
-| 2020-07-12 | 2021-01-12 | 2021-07-12 | 2022-01-12 | 2022-07-12 | 2023-01-12 | 2023-07-12 |
+| 2020-07-15 | 2021-01-15 | 2021-07-15 | 2022-01-15 | 2022-07-15 | 2023-01-15 | 2023-07-15 |
 | --- | --- | --- | --- | --- | --- | --- |
-| 274 | 334 | 414 | 578 | 739 | 974 | 1331 |
+| - | - | - | 275 | 416 | 740 | 1335 |
 ## [huandu/go-sqlbuilder](https://github.com/huandu/go-sqlbuilder)
-| 2020-07-12 | 2021-01-12 | 2021-07-12 | 2022-01-12 | 2022-07-12 | 2023-01-12 | 2023-07-12 |
+| 2020-07-15 | 2021-01-15 | 2021-07-15 | 2022-01-15 | 2022-07-15 | 2023-01-15 | 2023-07-15 |
 | --- | --- | --- | --- | --- | --- | --- |
-| 388 | 495 | 589 | 679 | 792 | 904 | 1044 |
+| - | 50 | 217 | 387 | 588 | 794 | 1045 |
